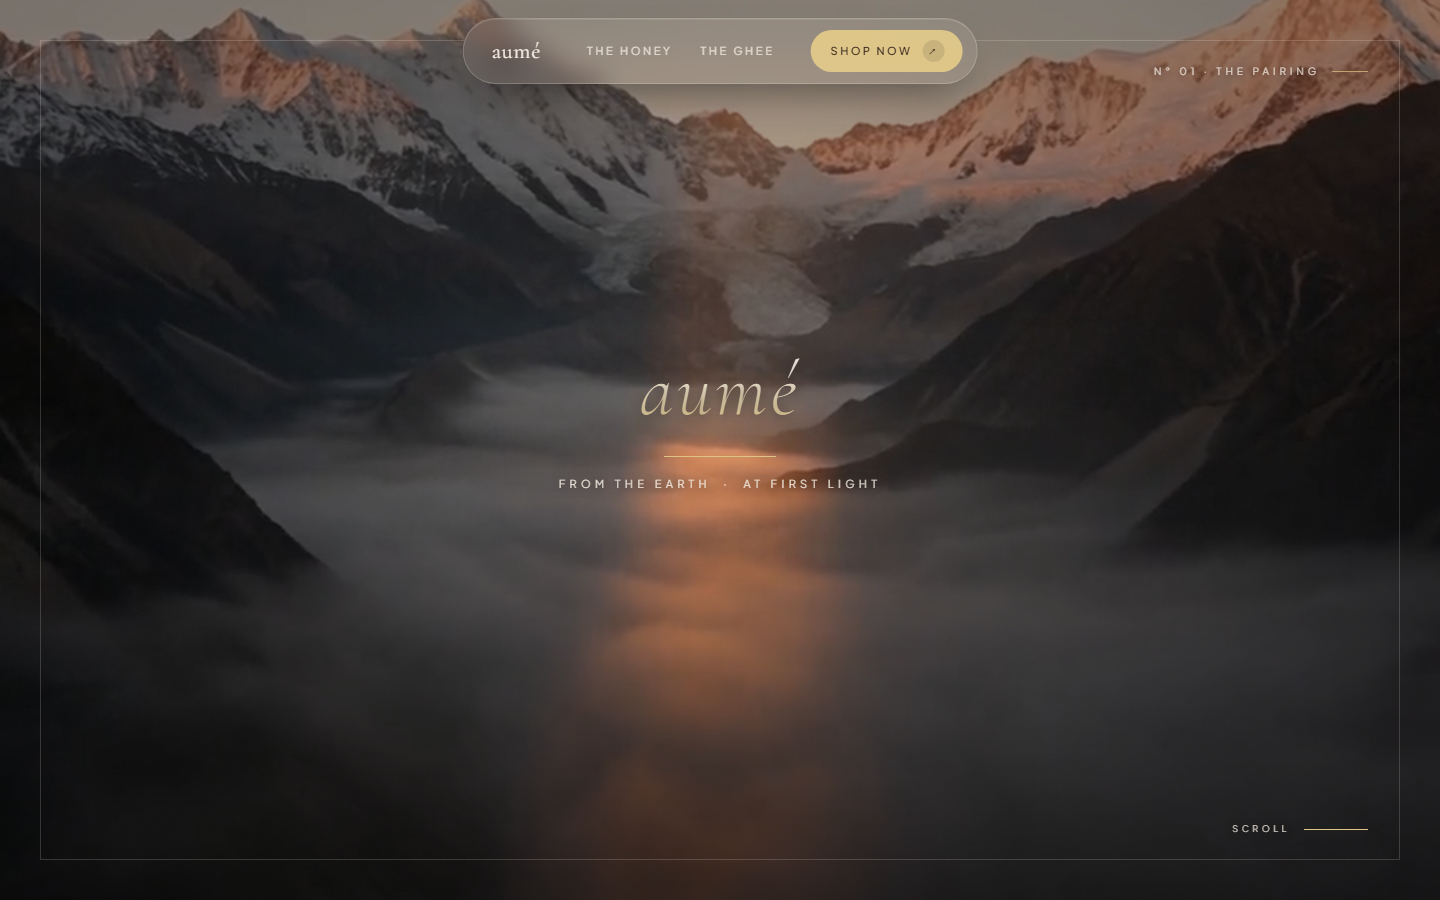
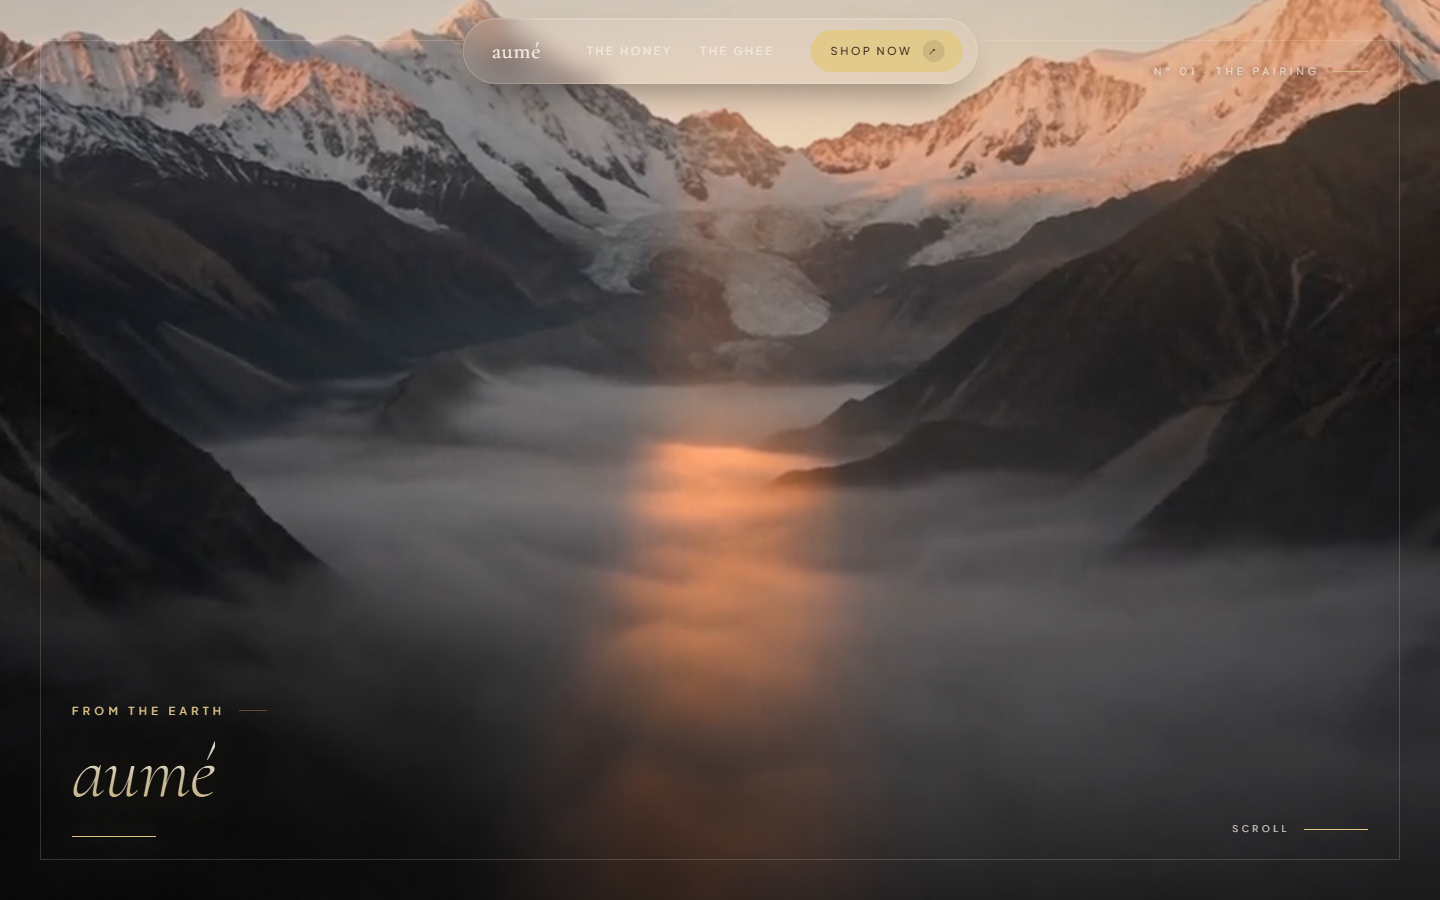
v2: redesign hero to share the tile system — single editorial flow
Founder feedback: the hero and tiles read as two different pages,
not one continuous experience. Aesop's site flow blends every
section through a shared composition system; v2 §1 had a centered
wordmark that broke from the §2/§3 bottom-left tile column.

Changes:
- Hero composition: centered → bottom-left, sharing exactly the
  --tile-overlay-pad-x / --tile-overlay-pad-y column the tiles
  below use. The eye now scans one continuous left edge from
  "aumé" → "Himalayan Clear Honey." → "A2 Bilona Ghee."
- Hero hierarchy: eyebrow ("FROM THE EARTH" + gold hairline) →
  wordmark ("aumé") — mirrors the tile pattern (eyebrow + title)
  exactly. Hero is Chapter 01 of the same architecture.
- Tagline reverted to "From the Earth" (was "From the Earth ·
  At First Light"). Footer slogan + og:description aligned. The
  closing tile §4 italic line still reads "From the Earth. At
  first light." — that's the editorial closing thought, separate
  from the hero subtitle.
- Scrim continuity: every tile (including hero) now carries a
  warm-amber radial wash at top-right. This is the chromatic
  through-line — sunrise → honey gold → ghee amber → cream — so
  the four tiles read as chapters of one volume, not isolated
  cards. Hero scrim now matches the tile scrim family.
- Choreography simplified: dropped the separate tagline-rise
  animation; eyebrow fades in early (600 ms), wordmark glyphs
  rise (800 ms+), hairline draws (3000 ms). One choreographed
[…]

diff --git a/src/styles/v2-global.css b/src/styles/v2-global.css
@@ -323,19 +323,22 @@ p { margin: 0; }
   backface-visibility: hidden;
   contain: paint;
 }
-/* Two-layer scrim — gradient + corner radial — keeps copy legible
-   without darkening the whole frame */
+/* Three-layer scrim — gradient + bottom-left dark + top-right
+   warm amber wash. The amber wash is the through-line that ties
+   §1 hero (sunrise warmth) → §2 honey (gold) → §3 ghee (amber) →
+   §4 cream into one chromatic arc. Without it the tiles read as
+   isolated cards; with it they read as chapters of one volume. */
 .v2-tile__scrim {
   position: absolute;
   inset: 0;
   z-index: 1;
   pointer-events: none;
   background:
-    radial-gradient(ellipse 70% 60% at 18% 92%, rgba(0,0,0,0.55) 0%, transparent 70%),
-    radial-gradient(ellipse 40% 30% at 88% 10%, rgba(0,0,0,0.32) 0%, transparent 70%),
+    radial-gradient(ellipse 70% 60% at 18% 92%, rgba(0, 0, 0, 0.55) 0%, transparent 70%),
+    radial-gradient(ellipse 50% 40% at 82% 10%, rgba(226, 201, 138, 0.14) 0%, transparent 70%),
     linear-gradient(
       to bottom,
-      rgba(0, 0, 0, 0.18) 0%,
+      rgba(0, 0, 0, 0.12) 0%,
       transparent 30%,
       transparent 60%,
       rgba(0, 0, 0, 0.42) 100%
